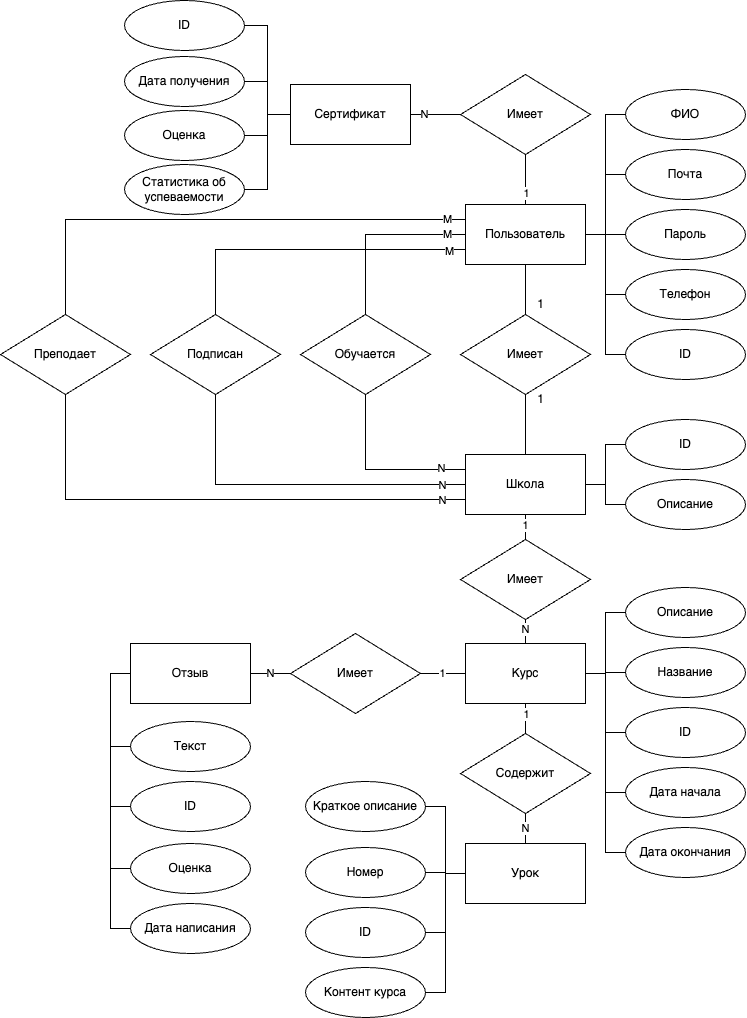
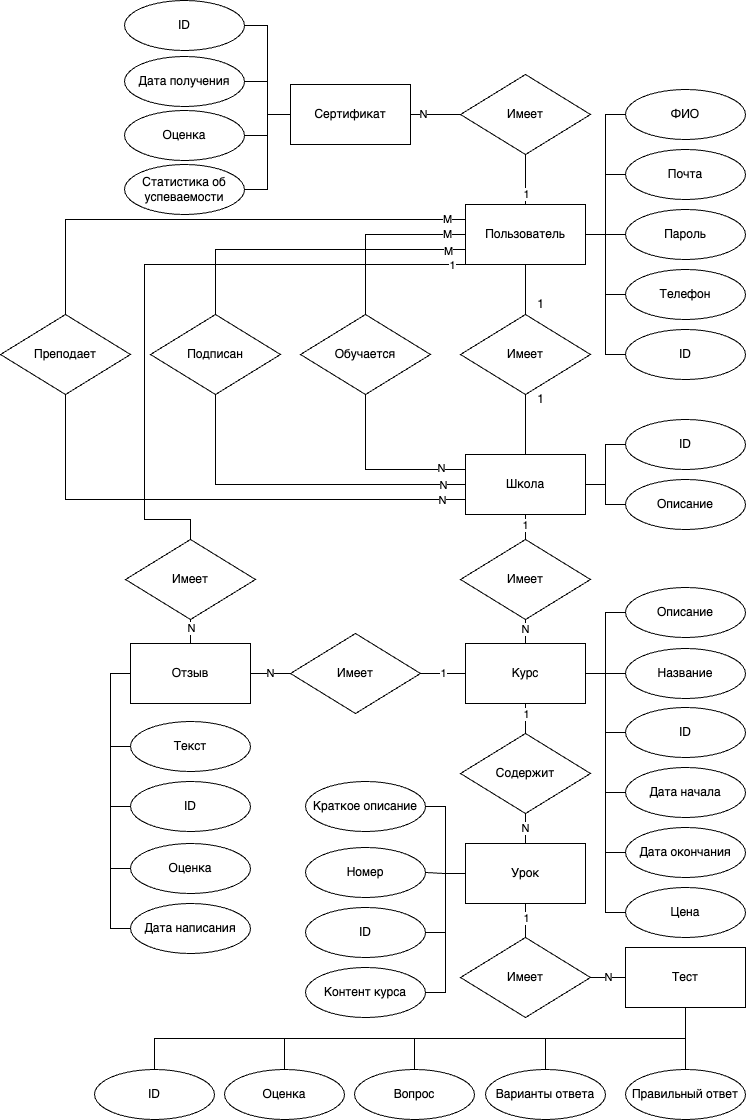
lab1 fix

diff --git a/README.md b/README.md
@@ -10,10 +10,10 @@ Eschool
 Также у каждого пользователя должна быть возможность создать собственную школу и образовательную программу 
 или присоединиться к уже существующей школе в качестве преподавателя или составителя курса.
 
-По прохождению курса пользователь должен иметь возможность получить сертификат о прохождении обучения, 
+По прохождении курса пользователь должен иметь возможность получить сертификат о завершении обучения, 
 включающий подробное описание его успеваемости и итоговую оценку.
 
-## Краткое описание предметной области
+## Описание предметной области
 
 Предметная область - онлайн образование.
 
@@ -21,17 +21,24 @@ Eschool
 имеющих целью предоставление возможности обучаемым освоить основной объём требуемой им 
 информации без непосредственного контакта обучаемых и преподавателей в ходе процесса обучения.
 
-Онлайн школа предоставляет возможность получать как теоретические знания, так и практические 
-путем прохождения тестирования после завершения урока. В рамках школы могут быть реализованы нескольких курсов. 
+Школа в данном проекте включает в себя множество преподавателей, студентов и курсов, которые могут быть реализованы
+преподавателями данной школы. Также школа содержит дополнительную информацию о создателе, платежные данные
+для оплаты того или иного курса и т. д.
+
+Онлайн школа предоставляет возможность получать как теоретические знания, так и практические. 
+Каждый курс разбит на уроки, которые могут быть нескольких типов: текстовые, видео-уроки и практические.
+Текстовые и видео уроки предоставляют теоретические знания, в то время как практические задания 
+представлены в виде тестов с множественным выбором. За прохождение какого-либо урока, студенту начисляются 
+баллы за прохождение курса.
 
 ## Анализ аналогичных решений по 3 критериям
 
-| Решение          | Подробный отчет об обучении | Наличие теории и практики | Нагруженный интерфейс |
-|------------------|-----------------------------|---------------------------|-----------------------|
-| Eschool          | +                           | +                         | -                     |
-| Stepik           | -                           | +                         | +                     |
-| Coursera         | +                           | +                         | +                     |
-| Yandex practicum | -                           | -                         | -                     |
+| Решение          | Подробный отчет об обучении | Наличие теории и практики | Понятный интерфейс |
+|------------------|-----------------------------|---------------------------|--------------------|
+| Eschool          | +                           | +                         | +                  |
+| Stepik           | -                           | +                         | -                  |
+| Coursera         | +                           | +                         | -                  |
+| Yandex practicum | -                           | -                         | +                  |
 
 ## Актуальность
 
@@ -43,7 +50,6 @@ Eschool
 с традиционными формами образования. Это делает обучение более доступным и экономически эффективным.
 Онлайн платформы позволяют преодолеть географические и социальные барьеры, 
 предоставляя возможность обучаться из любой точки мира.
-
 
 ## Описание ролей
 **Гость** - неавторизованный пользователь, который может посмотривать информацию о курсе, 
@@ -68,14 +74,50 @@ Eschool
 
 #### Формирование сертификата о пройденном курсе
 
-Происходит анализ статистики прохождения курса студентом:
-* аггрегируется информация о пройденных тестах;
-* анализируется количество пройденных теоретических блоков;
-* учитывается общее время прохождения курса;
-* проверяется, что курс начат и окончен в поставленные сроки;
-* в формировании общей оценки учитывается заявленная сложность курса (для начинающих/продвинутых);
-* формируется общая оценка в баллах по шкале от 1 до 100;
-* на основании проведенной аналитики формируется сертификат. 
+* Каждый урок в курсе имеет максимальный балл, устанавливаемый преподавателем. 
+* Ограничений на кол-во баллов нет, так как итоговая оценка будет рассчитана по процентному соотношению.
+* У каждого курса есть сложность, которая выражается по шкале от 1 до 5 (от новичка до профессионала).
+* При расчете общей оценки курса, каждый полученный балл за урок умножается на уровень курса. 
+* Если кол-во пройденных тестов меньше половины, то курс считается незавершенным 
+и необходимо пройти практические задания. 
+* Сертификат имеет статусы:
+  - Бронзовый - набрано более 50% баллов от максимально возможного кол-ва;
+  - Серебряный - набрано более 70% баллов от максимально возможного кол-ва;
+  - Золотой - набрано более 90% баллов от максимально возможного кол-ва.
+
+Процесс формирования сертификата:
+1.  проверяется, что курс начат и окончен в поставленные сроки;
+2.  рассчитываются количества баллов за тесты Pi, где i - номер теста;
+3.  рассчитываются количества баллов за теоретические уроки Tj, где j - номер теор. урока;
+4.  проверяется что (P1 +...+ PN) и (T1 +...+TM) больше половины от кол-ва тестов и теор. блоков в курсе соответственно.
+5.  к Pi и Tj применяется коэффициент сложности курса D, от 1 до 5;
+6.  рассчитывается максимально возможная оценка за курса по формуле: Nmax = ((P1max +...+PNmax) + (T1max +...+TMmax)) * D;
+7.  рассчитывается реальная оценка студента: Nreal = ((P1 +...+ PN) + (T1 +...+TM)) * D;
+8.  формируется статус сертификата в зависимости от процентного отношения Nreal к Nmax;
+9.  итоговая оценка Nreal переводится в шкалу от 1 до 100 баллов;
+10. фиксируется время начала и окончания курса;
+11. формируется страница с сертификатом студента.
+
+#### Создание и публикация курса
+
+Теоретические уроки курса будут выполнены в виде Markdown страниц, 
+практические уроки в виде набора тестов с множественным выбором.
+При этом каждый тест содержит максимальную оценку за его решение.
+
+Курс считается правильно созданным, если:
+* имеет хотя бы один теоретический урок (текстовый или видео);
+* имеет хотя бы один практический урок, состоящий из хотя бы одного теста;
+* уроки курса имеют не нулевую максимальную оценку;
+* текстовые уроки содержат не пустой markdown файл;
+* видео уроки содержат ссылку на видео;
+* дата начала и дата окончания курса отличаются хотя бы на 1 день;
+
+Процесс создания и публикации курса:
+1. Преподаватель формирует контент курса и соответствующие уроки;
+2. Курс находится в состоянии черновика;
+3. По завершении работы, курс проверяется на корректность по выше описанным правилам;
+4. В случае успешной валидации курс переходит в состояние готовности к публикации;
+5. При запросе преподавателя на публикацию становится видимым другим пользователям и переходит в состояние "опубликован".
 
 #### Аутентификация пользователей при входе
 1. Пользователь вводит логин и пароль;
@@ -92,7 +134,7 @@ Eschool
 - пройти аутентификацию (ввести логин и пароль учетной записи);
 - зарегистрироваться.
 
-После авторизации гость становится студентом, то есть авторищованным пользователем системы.
+После авторизации гость становится студентом, то есть авторизованным пользователем системы.
 
 **Студент** может:
 - просмотривать информацию о курсах;
